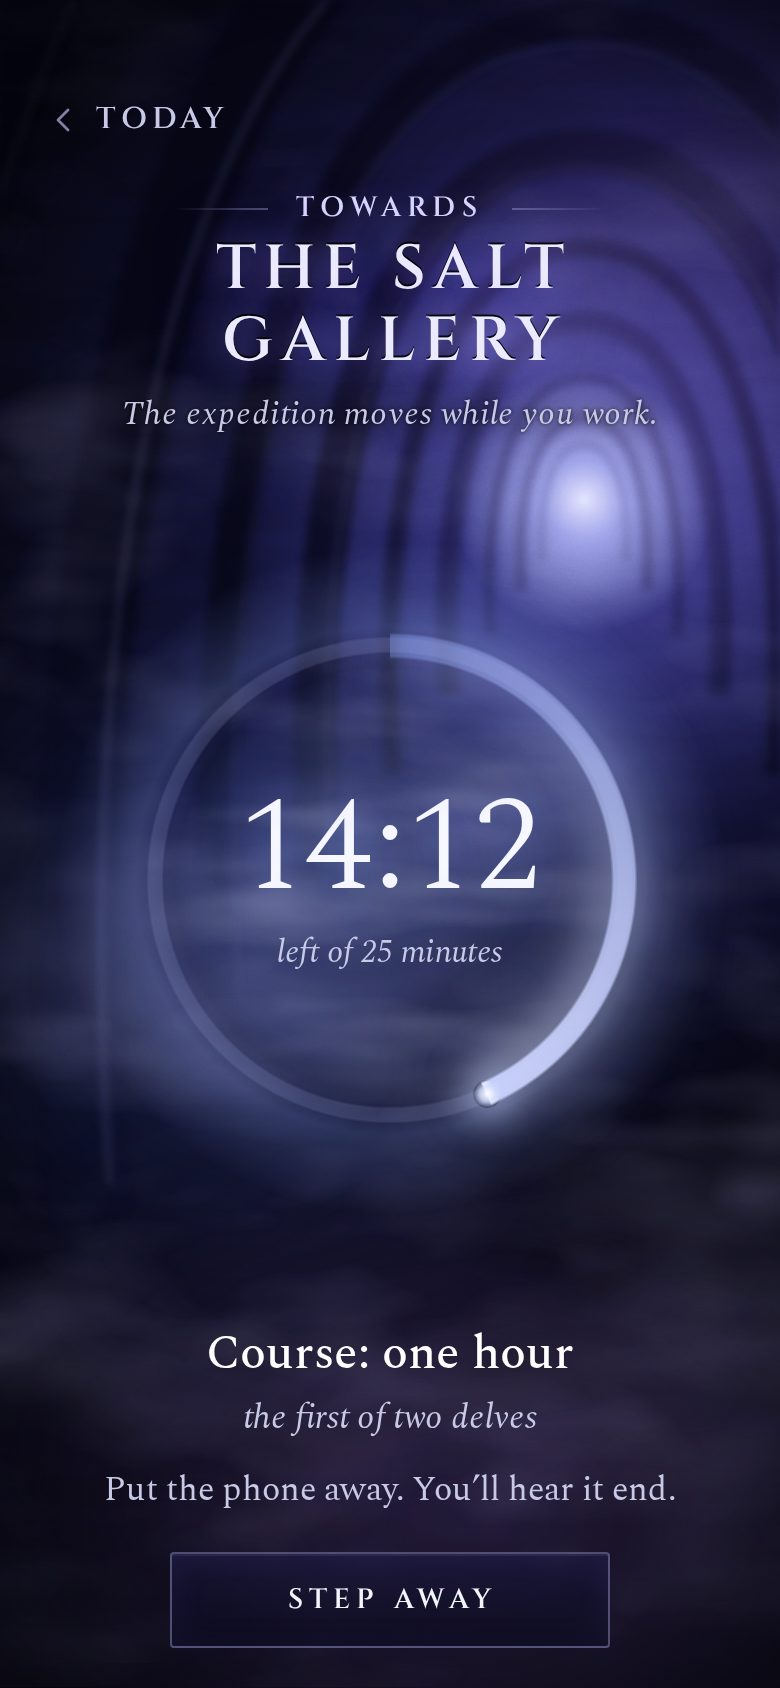
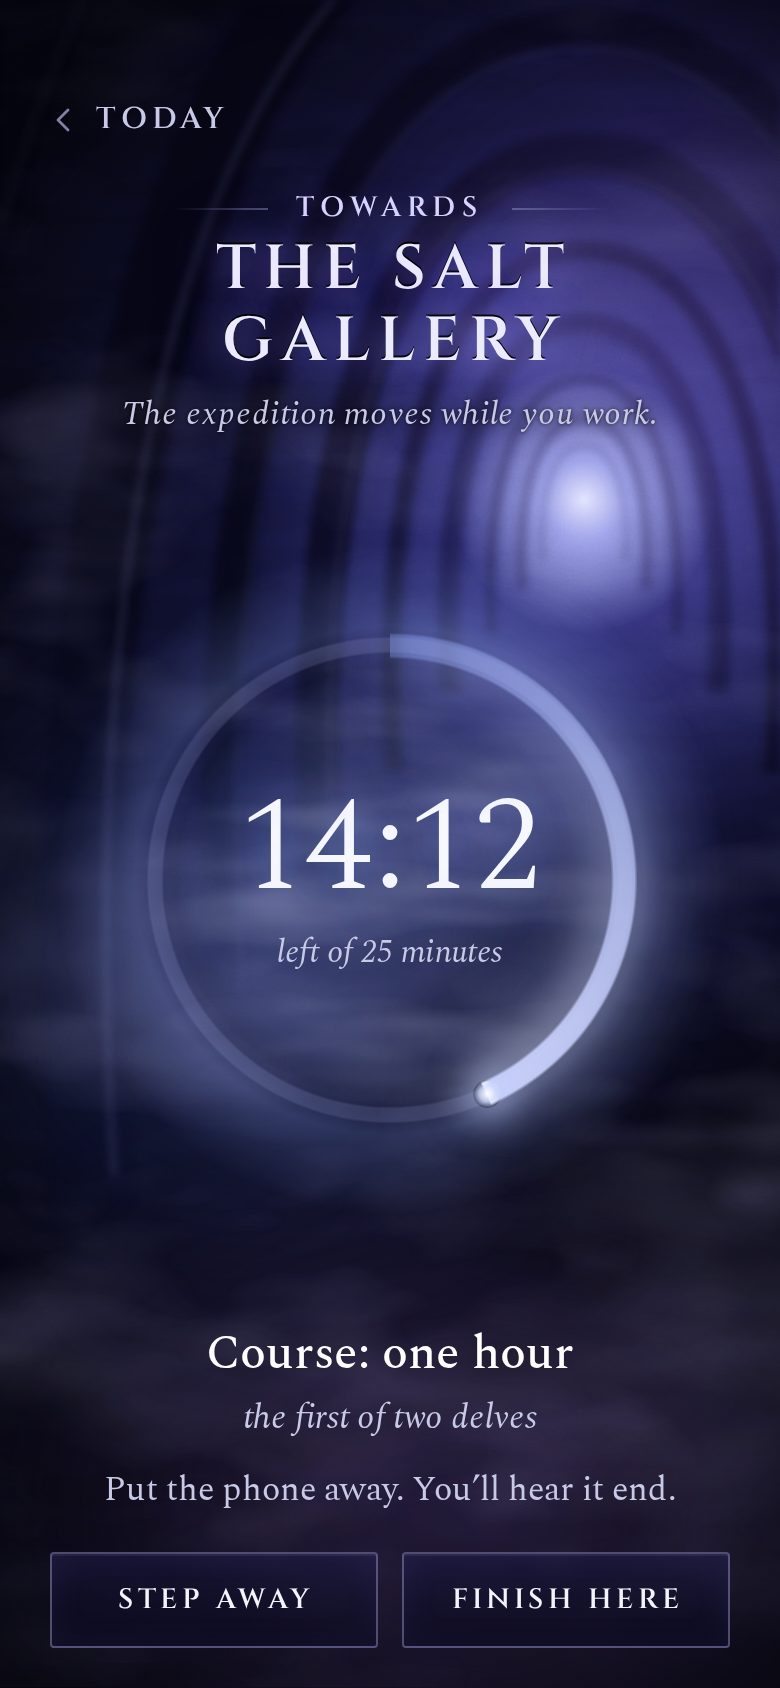
design: one main button and one quiet Finish here per delve state; remove ring shortcut (D-036)
Claude-Session: https://claude.ai/code/session_01Kbno6rpv5TB3oKGk9kw7t3

diff --git a/docs/design/directions/d-combined/delve.html b/docs/design/directions/d-combined/delve.html
@@ -70,7 +70,6 @@
 .bottom h2 { font-family:var(--life); font-weight:500; font-size:24px; color:#fff; }
 .bottom .of { font-size:17px; margin-top:2px; }
 .bottom .away { font-size:17px; color:var(--ink-2); margin:12px 0 18px; }
-.stopbtn { min-width: 220px; }
 .breather, .held { display:none; }
 .breathing .normal, .holding .normal { display:none; } .breathing .breather, .holding .held { display:block; }
 /* D-036: stepped away. The ring keeps its fill; the count inside goes quiet. */
@@ -78,6 +77,17 @@
 .ring.hold .inner, .ring.hold .tip { opacity:0; transition: opacity 1.2s var(--ease); }
 .held p { font-size:17px; color:var(--ink-2); margin:6px 0 20px; }
 .held .cant { display:flex; justify-content:center; margin-top: 8px; }
+/* D-036 (7): two quiet ways out of a running delve, side by side, equal weight */
+.two-quiet { display:grid; grid-template-columns: 1fr 1fr; gap: var(--gap); max-width: 340px; margin: 0 auto; }
+.two-quiet .btn-quiet { padding: 0 10px 0 calc(10px + .14em); letter-spacing: .14em; }
+.held .cant.two { align-items:center; gap: 2px; } .held .cant .dot { color: var(--ink-3); }
+/* Finish here: the delve closes on what was done */
+.fin, .fin > div { display:none; }
+.finishing .normal, .finishing .held { display:none; } .finishing .fin { display:block; }
+.finishing .breath-hide { opacity:0; transition: opacity 1s var(--ease); }
+.fin[data-f="course"] .fin-course, .fin[data-f="ask"] .fin-ask, .fin[data-f="yes"] .fin-yes, .fin[data-f="no"] .fin-no { display:block; }
+.fin p { font-size:17px; color:var(--ink-2); margin:6px 0 20px; }
+.fin .btn-row { max-width: 340px; margin: 0 auto; }
 #back { flex-direction: column; gap: 3px; padding-top: 10px; padding-bottom: 10px; line-height: 1.1; }
 #back .tail { font-family: var(--life); font-style: italic; font-weight: 500; font-size: 17px; letter-spacing: .01em; text-transform: none; }
 .breather p { font-size:17px; color:var(--ink-2); margin:6px 0 20px; }
@@ -125,22 +135,48 @@
       <p class="soft of first-only">the first of two delves</p>
       <p class="soft of second-only">the second of two delves</p>
       <p class="say away">Put the phone away. You’ll hear it end.</p>
-      <button class="btn-quiet stopbtn" id="step"><span>Step away</span></button>
+      <div class="two-quiet"><button class="btn-quiet" id="step"><span>Step away</span></button><button class="btn-quiet" id="finish"><span>Finish here</span></button></div>
     </div>
     <div class="held">
       <div class="label-line centred">A breather</div>
       <h2 style="margin-top:10px" id="heldjob">Course: one hour</h2>
       <p class="say">Your minutes are kept.<br>It’ll wait for you, even if you leave.</p>
       <button class="btn resting" id="back"><span>Back to the delve</span><span class="tail"><span id="heldmin">13</span> min left</span></button>
-      <div class="cant"><a class="text-link" id="heldtoday" href="morning.html#held-course-13"><span>Back to today</span></a></div>
+      <div class="cant"><button class="text-link" id="heldfinish"><span>Finish here</span></button></div>
+    </div>
+    <div class="fin" data-f="course">
+      <div class="fin-course">
+        <div class="label-line centred">The delve</div>
+        <h2 style="margin-top:10px"><span class="donemin">25 minutes</span> on the Course.</h2>
+        <p class="say">The passage opens out ahead.</p>
+        <a class="btn resting" href="morning.html#later">Back to today</a>
+      </div>
+      <div class="fin-ask">
+        <div class="label-line centred">The delve</div>
+        <h2 style="margin-top:10px">Is it done?</h2>
+        <p class="say">Order the cat’s medication</p>
+        <div class="btn-row"><button class="btn resting" id="isdone">Done</button><button class="btn-quiet" id="notyet"><span>Not yet</span></button></div>
+      </div>
+      <div class="fin-yes">
+        <div class="label-line centred">The delve</div>
+        <h2 style="margin-top:10px">Ordered. The day moves on.</h2>
+        <p class="say">The passage opens out ahead.</p>
+        <a class="btn resting" href="morning.html#later">Back to today</a>
+      </div>
+      <div class="fin-no">
+        <div class="label-line centred">The delve</div>
+        <h2 style="margin-top:10px"><span class="donemin">22 minutes</span> kept.</h2>
+        <p class="say">It’ll be there when you come back to it.</p>
+        <a class="btn resting" href="morning.html">Back to today</a>
+      </div>
     </div>
     <div class="breather">
       <div class="first-only">
         <div class="label-line centred">A breather</div>
         <h2 style="margin-top:10px">That’s the first delve.</h2>
-        <p class="say">The passage opens out ahead. Rest a little; there’s nothing to watch.</p>
+        <p class="say">The passage opens out ahead. Rest a little, or start the next one whenever you like.</p>
         <a class="btn resting" href="delve.html#second">Next delve</a>
-        <div class="cant two"><a class="text-link" href="delve.html#second"><span>Skip the breather</span></a><span class="dot" aria-hidden="true">·</span><a class="text-link" href="morning.html#later"><span>Done for now</span></a></div>
+        <div class="cant"><a class="text-link" href="morning.html#later"><span>Finish here</span></a></div>
       </div>
       <div class="cat-only" style="display:none">
         <div class="label-line centred">The delve</div>
@@ -202,25 +238,46 @@
   if (/stepped/.test(location.hash)) left = 13*60;   /* a sample: stepped away with 13 min left */
   ring.setAttribute('aria-label', 'Time left of ' + Math.round(total / 60) + ' minutes');
   function draw(){ var m = Math.floor(left/60), s = left % 60; t.textContent = m + ':' + (s < 10 ? '0' : '') + s; ring.style.setProperty('--p', ((total - left) / total).toFixed(4)); }
-  var held = false;
-  function end(){ held = false; ui.classList.remove('holding'); ring.classList.remove('hold'); left = 0; draw(); ring.classList.add('ended'); setTimeout(function(){ ring.classList.add('rest'); }, 1200); setTimeout(function(){ ui.classList.add('breathing'); }, 900); }
+  var held = false, finished = false;
+  function end(){ if (finished) return; held = false; ui.classList.remove('holding'); ring.classList.remove('hold'); left = 0; draw(); ring.classList.add('ended'); setTimeout(function(){ ring.classList.add('rest'); }, 1200); setTimeout(function(){ ui.classList.add('breathing'); }, 900); }
   /* D-036: step away. The minutes done are kept, the delve is held with its time left, and the breather starts at once. */
   function stepAway(){
     held = true;
     var m = Math.max(1, Math.floor(left / 60)), tail = job + '-' + m + (job === 'cat' ? '-of-' + (total / 60) : '');
     document.getElementById('heldmin').textContent = m;
     document.getElementById('heldjob').textContent = document.getElementById('job').textContent;
-    document.getElementById('heldtoday').setAttribute('href', 'morning.html#held-' + tail);
+    document.querySelector('.topbar .home').setAttribute('href', 'morning.html#held-' + tail);   /* Today, while held, offers Carry on */
     ring.classList.add('hold'); ui.classList.add('holding');
   }
-  function backToDelve(){ held = false; ring.classList.remove('hold'); ui.classList.remove('holding'); }
+  function backToDelve(){ document.querySelector('.topbar .home').setAttribute('href', 'morning.html'); held = false; ring.classList.remove('hold'); ui.classList.remove('holding'); }
   draw();
-  if (!frozen) requestAnimationFrame(function(){ requestAnimationFrame(function(){ setTimeout(function(){ setInterval(function(){ if (left > 0 && !held) { left--; draw(); if (!left) end(); } }, 1000); }, 3000); }); });
-  ring.addEventListener('click', function(){ if (!held) end(); });   /* a preview of the end: tap the ring */
+  if (!frozen) requestAnimationFrame(function(){ requestAnimationFrame(function(){ setTimeout(function(){ setInterval(function(){ if (left > 0 && !held && !finished) { left--; draw(); if (!left) end(); } }, 1000); }, 3000); }); });
+  /* D-036 (7): Finish here. Every minute done counts; the ring closes gently on what was done (no unused minutes shown). */
+  function finish(){
+    if (finished) return;
+    var m = Math.max(1, Math.floor((total - left) / 60)), words = m + (m === 1 ? ' minute' : ' minutes');
+    finished = true; held = false;
+    document.querySelectorAll('.donemin').forEach(function(e){ e.textContent = words; });
+    ui.classList.remove('holding'); ring.classList.add('hold');
+    var from = (total - left) / total, t0 = null;
+    function step(ts){ if (t0 === null) t0 = ts; var k = Math.min(1, (ts - t0) / 1100), e = 1 - Math.pow(1 - k, 3);
+      ring.style.setProperty('--p', (from + (1 - from) * e).toFixed(4));
+      if (k < 1) requestAnimationFrame(step); else { ring.classList.add('ended'); setTimeout(function(){ ring.classList.add('rest'); }, 1200); } }
+    requestAnimationFrame(step);
+    document.querySelector('.fin').setAttribute('data-f', job === 'cat' ? 'ask' : 'course');
+    ui.classList.add('finishing');
+  }
+  function answer(f){ document.querySelector('.fin').setAttribute('data-f', f); }
   document.getElementById('step').addEventListener('click', stepAway);
   document.getElementById('back').addEventListener('click', backToDelve);
+  document.getElementById('finish').addEventListener('click', finish);
+  document.getElementById('heldfinish').addEventListener('click', finish);
+  document.getElementById('isdone').addEventListener('click', function(){ answer('yes'); });
+  document.getElementById('notyet').addEventListener('click', function(){ answer('no'); });
   if (/breather|end/.test(location.hash)) end();
   if (/stepped/.test(location.hash)) stepAway();
+  /* samples: #finished (the Course, 25 minutes done), #cat-60-finish (the question, 22 minutes done) */
+  if (/finish/.test(location.hash)) { left = cat ? Math.max(0, total - 22*60) : 0; draw(); finish(); }
 })();
 </script>
 </body>

diff --git a/docs/design/tour.html b/docs/design/tour.html
@@ -34,13 +34,13 @@ button:focus-visible{outline:2px solid #b9c6e8;outline-offset:2px}
 const D={d:"d-combined",a:"a-lamp-and-stone",b:"b-engraved-light",c:"c-turning-day"};
 const N={d:"D · The combined look",a:"A · Lamp and Stone",b:"B · Engraved Light",c:"C · The Turning Day"};
 const BASE=[["morning","Morning"],["delve","A delve (timer)"],["map","The map"],["record","Reading a record"],["cut","Cutting a word (animated)"],["complete","Day complete (animated)"],["camp","Camp"],["satchel","The satchel"],["daybook","The daybook"]];
-const EXTRA={d:[[1,"delve-set","Setting the delve length (the dial)"],[1,"delve-set-variants","Delve length: try B and C (switch at the top)"],[5,"stair","The head of the stair"]],a:[[1,"morning-violet","Morning, violet version"]],b:[[5,"stair","The head of the stair"]],c:[]};
+const EXTRA={d:[[1,"delve-set","Setting the delve length (the dial)"],[1,"delve-set-variants","Delve length: try B and C (switch at the top)"],[2,"delve#breather","The end of a delve (the breather)"],[5,"stair","The head of the stair"]],a:[[1,"morning-violet","Morning, violet version"]],b:[[5,"stair","The head of the stair"]],c:[]};
 function list(d){const l=BASE.slice();for(const [i,s,t] of EXTRA[d].slice().reverse()) l.splice(i,0,[s,t]);return l}
 let d="d",i=0;
 try{const h=location.hash.slice(1).split("-");if(D[h[0]]){d=h[0];i=Math.max(0,+h[1]||0)}}catch(e){}
 const f=document.getElementById("f");
 function fit(){const st=document.getElementById("stage");const s=Math.min(st.clientWidth/390,st.clientHeight/844,1.2);document.getElementById("phone").style.transform=`scale(${s})`;document.getElementById("phone").style.margin=`${(844*s-844)/2}px ${(390*s-390)/2}px`}
-function go(){const l=list(d);i=(i+l.length)%l.length;f.src=`directions/${D[d]}/${l[i][0]}.html`;
+function go(){const l=list(d);i=(i+l.length)%l.length;f.src=`directions/${D[d]}/${l[i][0].replace(/(#.*)?$/,".html$1")}`;
 document.getElementById("name").innerHTML=`<b>${N[d]}</b> — ${l[i][1]} <span style="color:#6f7584">(${i+1} of ${l.length})</span>`;
 document.querySelectorAll(".dirs button").forEach(b=>b.setAttribute("aria-pressed",b.dataset.d===d));
 const dots=document.getElementById("dots");dots.innerHTML="";l.forEach((x,k)=>{const b=document.createElement("button");b.setAttribute("aria-label",x[1]);if(k===i)b.setAttribute("aria-current","true");b.onclick=()=>{i=k;go()};dots.append(b)});

diff --git a/docs/design/directions/d-combined/REVISION-2.md b/docs/design/directions/d-combined/REVISION-2.md
@@ -28,4 +28,10 @@
 
 - **delve.** "Stop for now" and its confirm step are gone. A quiet **Step away** keeps the minutes done, holds the delve and goes straight into a breather: the ring keeps its fill, the count inside goes quiet, and the note "The expedition moves while you work" fades. The main button reads **Back to the delve** with "N min left" under it (whole minutes at the moment of stepping away; two lines, because one line doesn't fit a 360 px phone). It resumes the same delve at the same fill. Under it: "Your minutes are kept. It'll wait for you, even if you leave." and a **Back to today** link to `morning.html#held-<job>-N` (`course`, `second`, or `cat-N-of-M`, where M is the dial length). `#stepped` shows the held breather with a sample 13 min left. `#resume-course-N`, `#resume-second-N` and `#resume-cat-N-of-M` start the ring with N minutes left of the original length. The normal end-of-delve breather is unchanged.
 - **morning.** `#held-…` makes the first offer under NEXT **Carry on: Course** (or *the cat's medication*), with "N minutes left in this delve", a **Carry on** button (to `delve.html#resume-…`) and a quiet **Start afresh** in place of Swap. Start afresh goes to the job's normal start (`delve.html`, `#second`, or the dial for the cat). The rest of the screen is unchanged.
-- Shot regenerated: `delve` (the button now says Step away).
+- **delve: Finish here (D-036 point 7).** A running delve now shows two equal quiet buttons side by side, **Step away** and **Finish here**. The held breather also has a quiet "Finish here" next to "Back to today". Finish here stops the count and the ring closes gently to full on what was done, so no unused minutes are shown. For the Course (no hash, `#second`, `#resume-course-*`) nothing is asked: "N minutes on the Course." and Back to today (`morning.html#later`). For the cat job, "Is it done?" asks Done / Not yet. Done gives "Ordered. The day moves on." and goes to `#later`. Not yet gives "N minutes kept." and goes to plain `morning.html`, since the job is still open. N counts every piece of the delve. Samples: `#finished` (the Course, 25 min) and `#cat-60-finish` (the question, 22 min done).
+- Shot regenerated: `delve` (two quiet buttons under the ring).
+
+### D-036 (8): fewer ways to end (coordinator)
+- Removed the hidden tap-the-ring shortcut; the tour now lists "The end of a delve" (`delve.html#breather`) as its own screen (`tour.html` accepts `name#hash`).
+- Held breather: "Back to the delve" + quiet "Finish here" only; the top Today link now points at `morning.html#held-…` while held.
+- Full-delve breather: "Next delve" + quiet "Finish here" ("Skip the breather" and "Done for now" gone).

diff --git a/docs/game/TOOLS.md b/docs/game/TOOLS.md
@@ -17,7 +17,7 @@ The 25/5 Pomodoro that already works for Dan, made into a moment in the world.
 - **A shorter first delve.** After "I can't start" and the tiny step, the offer to continue is "10 minutes?". Minutes count towards the job as usual; a step after day complete still needs a full delve, so nothing becomes farmable.
 - **The break is a short *camp* beat that ends itself.** The find is shown, the camp packs up, and the obvious buttons are "next delve" or "done for now". Nothing to scroll or browse; a gentle sound when the 5 minutes are up. The break is where the phone wins, so it stays small.
 - **The delve's length is Dan's to set** (Dan, 2026-09-24, D-033). It starts at 25 minutes; before starting, he can raise it to 30, 45 or 60 minutes (60 is the most). The breather stays 5 minutes. Setting it must be a beautiful, tactile control, never typed in (Phase 4 explores a dial, a slider and the lamp's flame). As he raises it, the screen shows **how much further it will take him** (a place beyond the usual reach), as a pull, never as a warning or a debt.
-- **In flow, keep going.** When a delve ends he can carry straight on, and he can **skip the breather**. Nothing is lost either way: minutes count the same.
+- **In flow, keep going.** When a delve ends he can carry straight on, and he can **skip the breather** (tapping "Next delve" during it starts the next one at once). Nothing is lost either way: minutes count the same.
 - **A deep delve** is four delves in one sitting, with gaps of up to about 20 minutes allowed between them. It reaches somewhere a single one can't: a deeper chamber, or a find. Long focus is rewarded in kind, not with bigger numbers. An interruption doesn't cost the deep chamber.
 - Stopping early loses nothing. Minutes done still count towards the job's hour.
 - **Stepping away (D-036).** An interruption is handled with one quiet button, **"Step away"**: the minutes done are kept, the delve is **held** with its time left, and the breather starts. "Back to the delve · N min left" carries the same delve on; if the interruption runs long, Today offers "Carry on: <job> · N min left" whenever Dan returns that day. The hold belongs to the job, not the screen. Only one delve is held at a time, and it closes at the day's end. The pieces add up to one delve and earn no more than an unbroken one. **"Finish here"** sits beside it: it ends the delve now with every minute counted; for a done-or-not job it asks once, "Is it done?" (Done / Not yet).

diff --git a/docs/design/INTERACTION_NOTES.md b/docs/design/INTERACTION_NOTES.md
@@ -18,7 +18,7 @@ One tap to start: **Begin** opens the delve-length dial with 25 minutes already 
 - The breather stays 5 minutes. B (the hall slider) and C (the flame) are kept in `delve-set-variants.html` for comparison.
 
 ## The delve
-The glowing ring fills with the time left in the middle (D-028); the destination is the headline ("Towards the Salt Gallery"); the tunnel and fog move so the world is visibly travelling. The phone can go away; the end must be heard or felt (Phase 7). **In flow:** "Keep going" at the end, and "Skip the breather" during the break, both without loss. **Interrupted (D-036):** a quiet "Step away" keeps the minutes, holds the delve and starts the breather, whose main button becomes "Back to the delve · N min left". If he's gone longer, the morning screen's first offer is "Carry on: <job> · N min left". Dan can go anywhere in the app meanwhile; the hold belongs to the job. Beside it, **"Finish here"** ends the delve with every minute counted; a done-or-not job then asks "Is it done?" (Done / Not yet). Never shown as falling short.
+The glowing ring fills with the time left in the middle (D-028); the destination is the headline ("Towards the Salt Gallery"); the tunnel and fog move so the world is visibly travelling. The phone can go away; the end must be heard or felt (Phase 7). **In flow:** "Keep going" at the end; during the breather, "Next delve" starts the next one at once (that is how the breather is skipped), without loss. **Only two ideas, always in the same words:** "Step away" (hold it, I'll be back) and "Finish here" (I'm done, count what I did). Every delve state has at most one main button and one quiet "Finish here"; the Today link at the top is the way back. **Interrupted (D-036):** a quiet "Step away" keeps the minutes, holds the delve and starts the breather, whose main button becomes "Back to the delve · N min left". If he's gone longer, the morning screen's first offer is "Carry on: <job> · N min left". Dan can go anywhere in the app meanwhile; the hold belongs to the job. Beside it, **"Finish here"** ends the delve with every minute counted; a done-or-not job then asks "Is it done?" (Done / Not yet). Never shown as falling short.
 
 ## The map
 Routes draw themselves in, then settle to dust. Tap a place: a crosshair closes on it and its description rises in a box underneath. Places you've walked are warm-lit; places seen but not reached are dim; the unknown is dark.

diff --git a/docs/DECISIONS.md b/docs/DECISIONS.md
@@ -376,6 +376,7 @@
   5. Only one thing is ever held: starting a delve on another job closes the held one quietly (its minutes stay counted). A held delve closes at the end of the day; tomorrow starts fresh, with nothing owed.
   6. Fairness: a delve's reward still needs its full length in total, however many pieces; time stepped away never counts against a long delve's gaps.
   7. **Amended the same day (Dan): stopping is separate from stepping away.** The delve shows two quiet options: "Step away" (above) and **"Finish here"**. Finish here ends the delve now and every minute done counts at once. For a job measured in time (the Course's hour) nothing is asked. For a done-or-not job (the cat's medication) one question follows, "Is it done?" (Done / Not yet): Done completes the job and moves the world as usual; Not yet keeps the minutes. Finishing early is never shown as falling short (no unused minutes, no half-empty ring).
+  8. **Kept simple (Dan: "make sure we aren't building in lots of ways to end it").** Only two ideas, always in the same words: "Step away" and "Finish here" (which also replaces "Done for now"). Each delve state has at most one main button and one quiet "Finish here". "Skip the breather" is dropped: "Next delve" during the breather starts it at once. The held breather has no separate "Back to today" (the Today link at the top does it, and offers Carry on). The mock-up's hidden tap-the-ring shortcut is removed.
 - **Alternatives:** a pause button (a frozen timer waiting for you reads as an unfinished debt); asking at the moment of interruption whether it is short or long (a decision at the worst time).
 - **Rationale:** interruptions are normal with ADHD (`TOOLS_RESEARCH.md`, proposal 6); failure is information, not punishment (rule 9); one button covers both cases, so nothing needs deciding mid-interruption (P1); pieces can't out-earn a whole (rule 10).
 - **Consequences:** `game/TOOLS.md` §1, `design/INTERACTION_NOTES.md` (the delve) and the D mock-up (`delve.html`, `morning.html`) updated.
